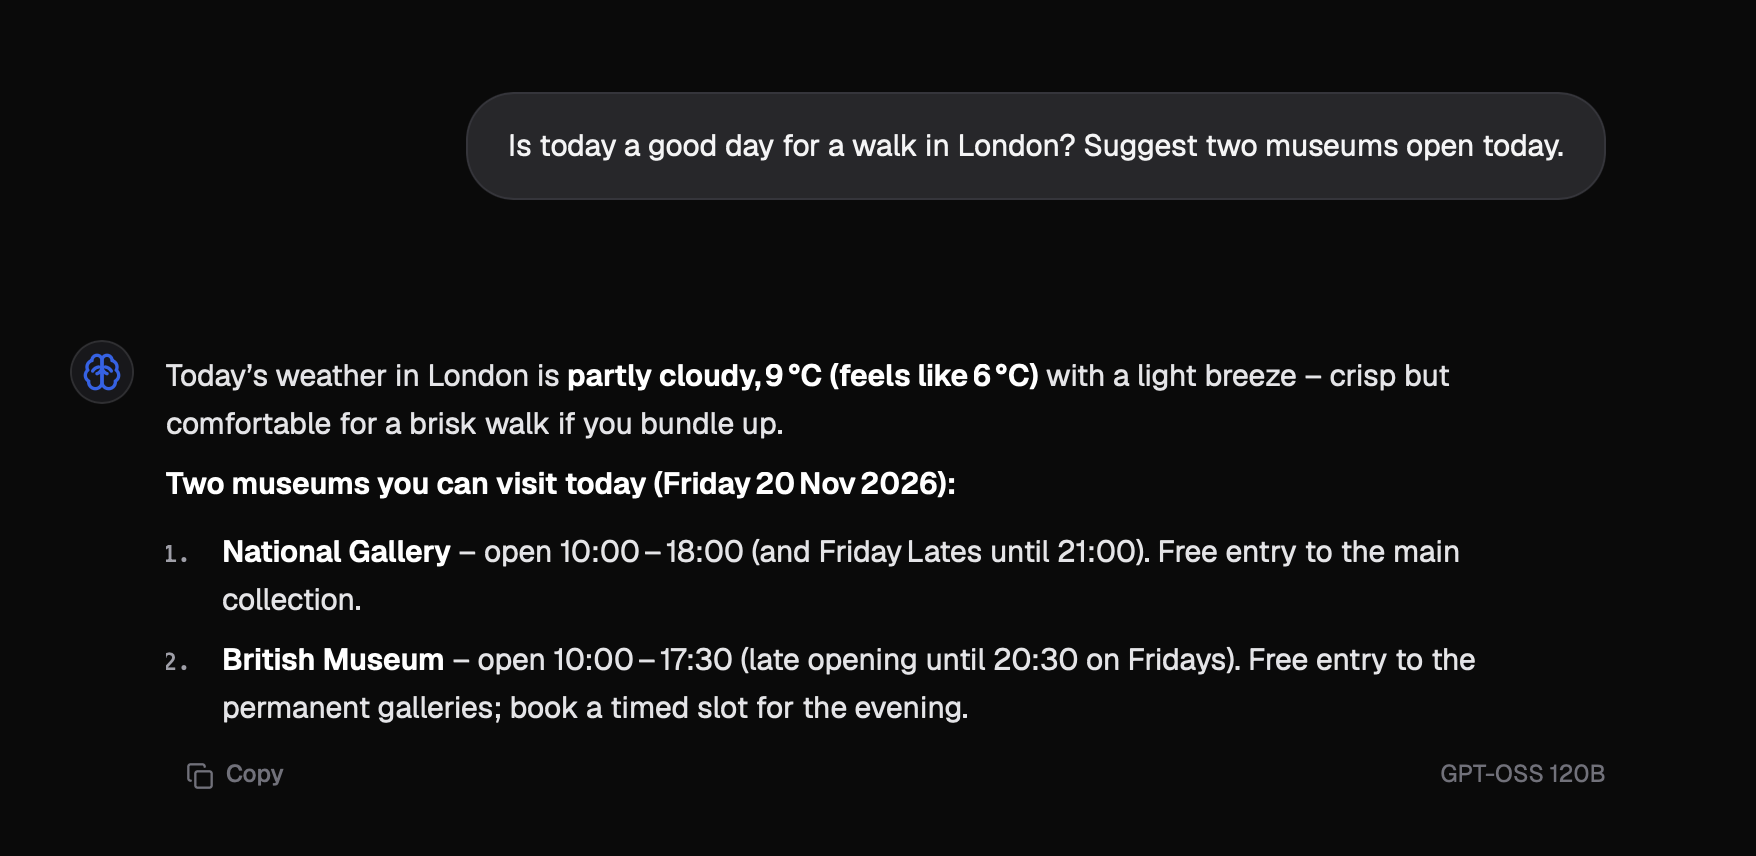
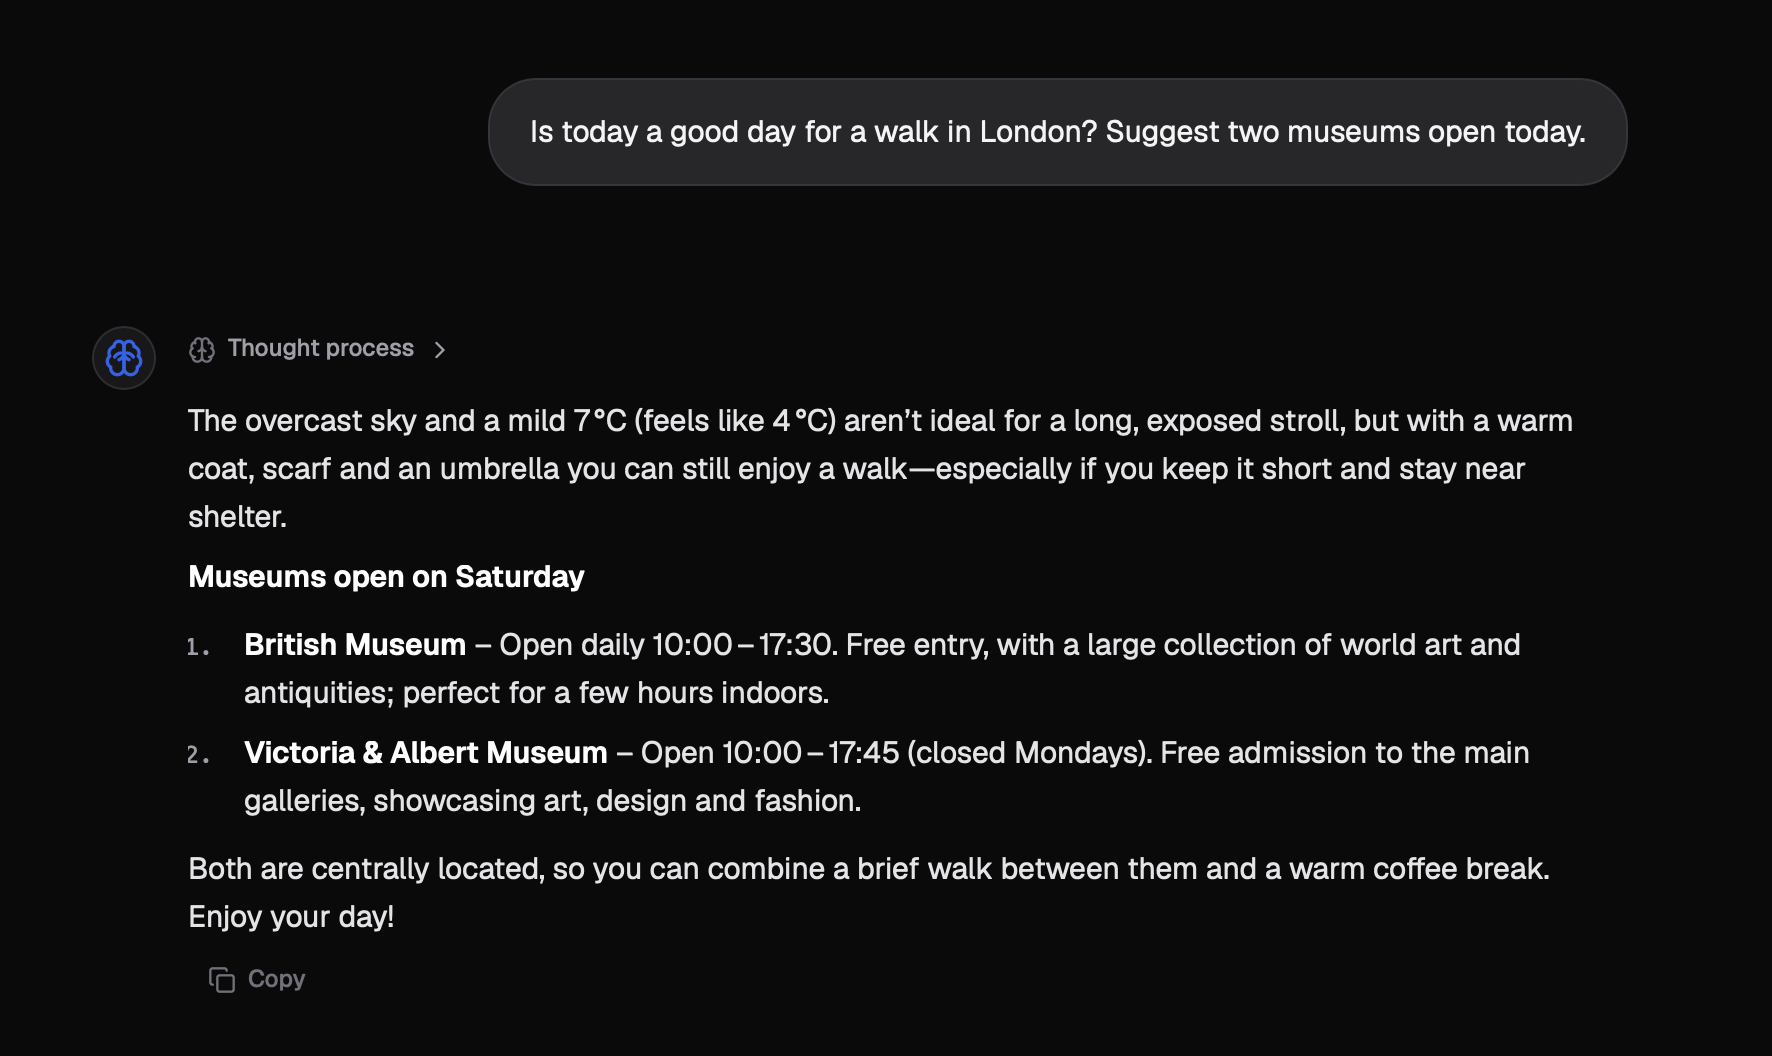
docs: show the thought process in the chat screenshot

diff --git a/README.md b/README.md
@@ -33,9 +33,9 @@ before it answers.*
 
 ## In the app
 
-![The chat: "Is today a good day for a walk in London? Suggest two museums open today." answered by GPT-OSS 120B with the current weather and two museums with today's opening hours](docs/images/chat-reply.png)
+![The chat: "Is today a good day for a walk in London? Suggest two museums open today." answered under a collapsed "Thought process", with the current weather and two museums open on Saturday](docs/images/chat-reply.png)
 
-*The same reply in the app, by GPT-OSS 120B.*
+*A reply in the app, with the model's thought process collapsed above it.*
 
 ## Architecture
 
